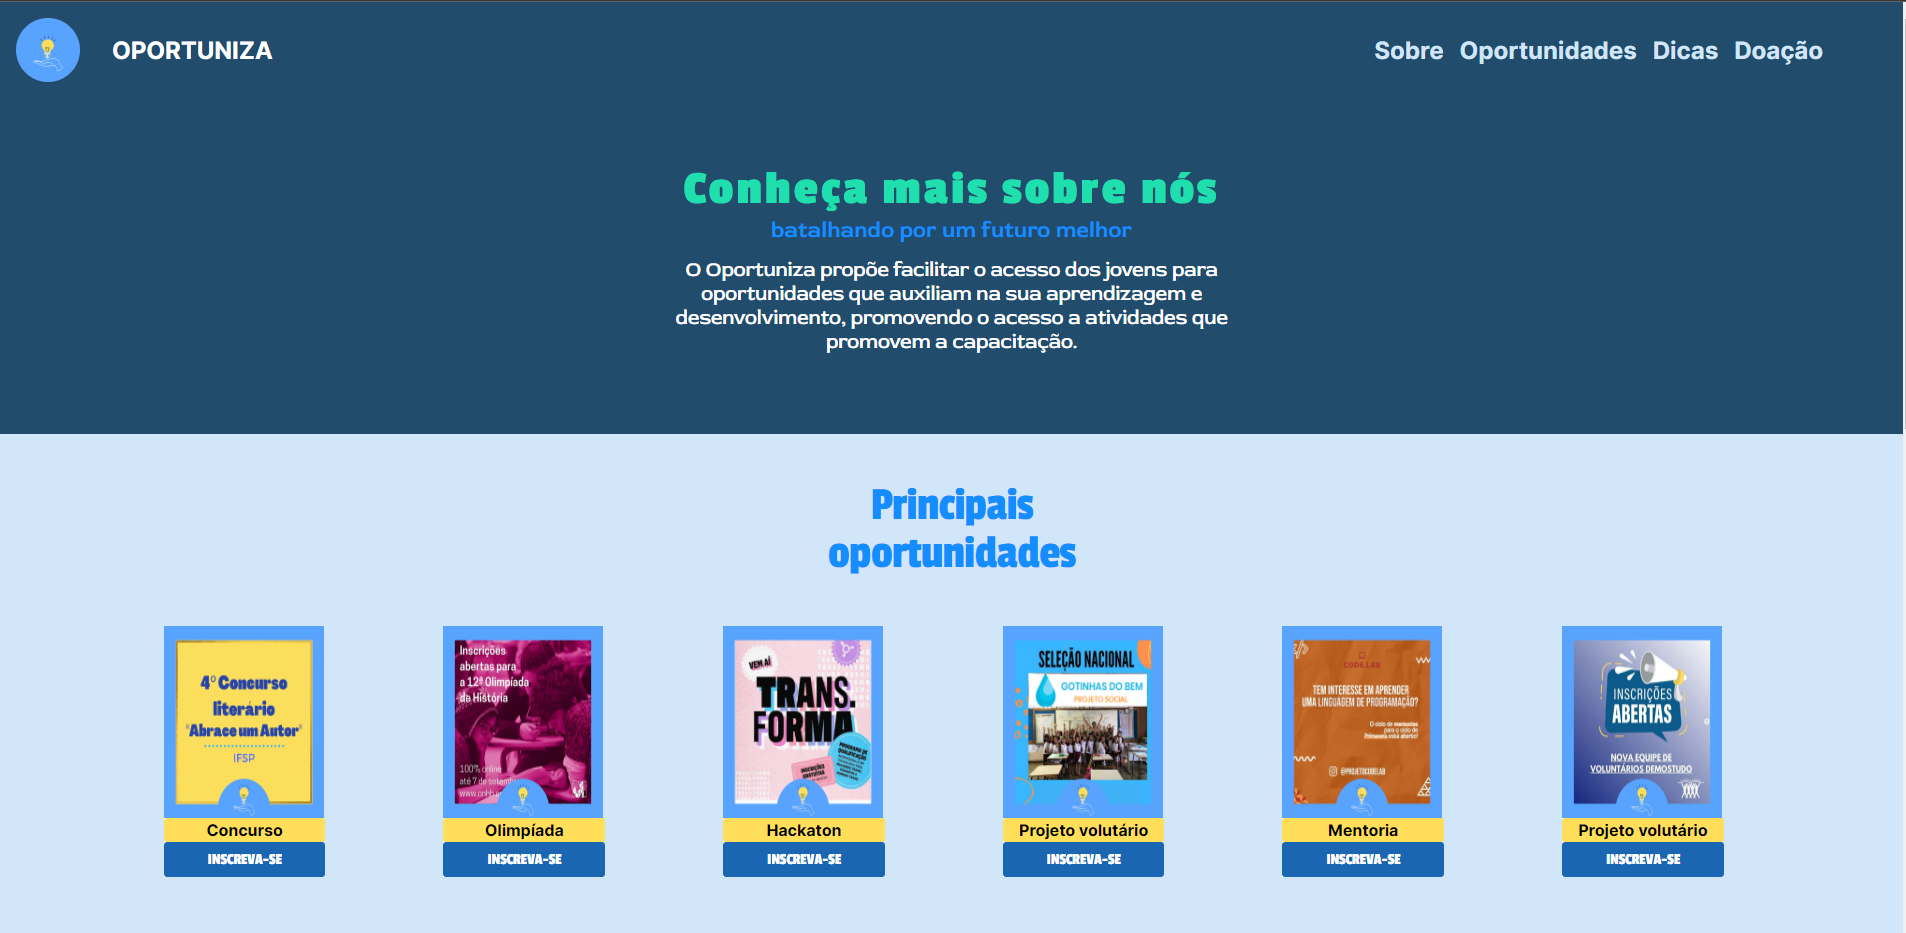
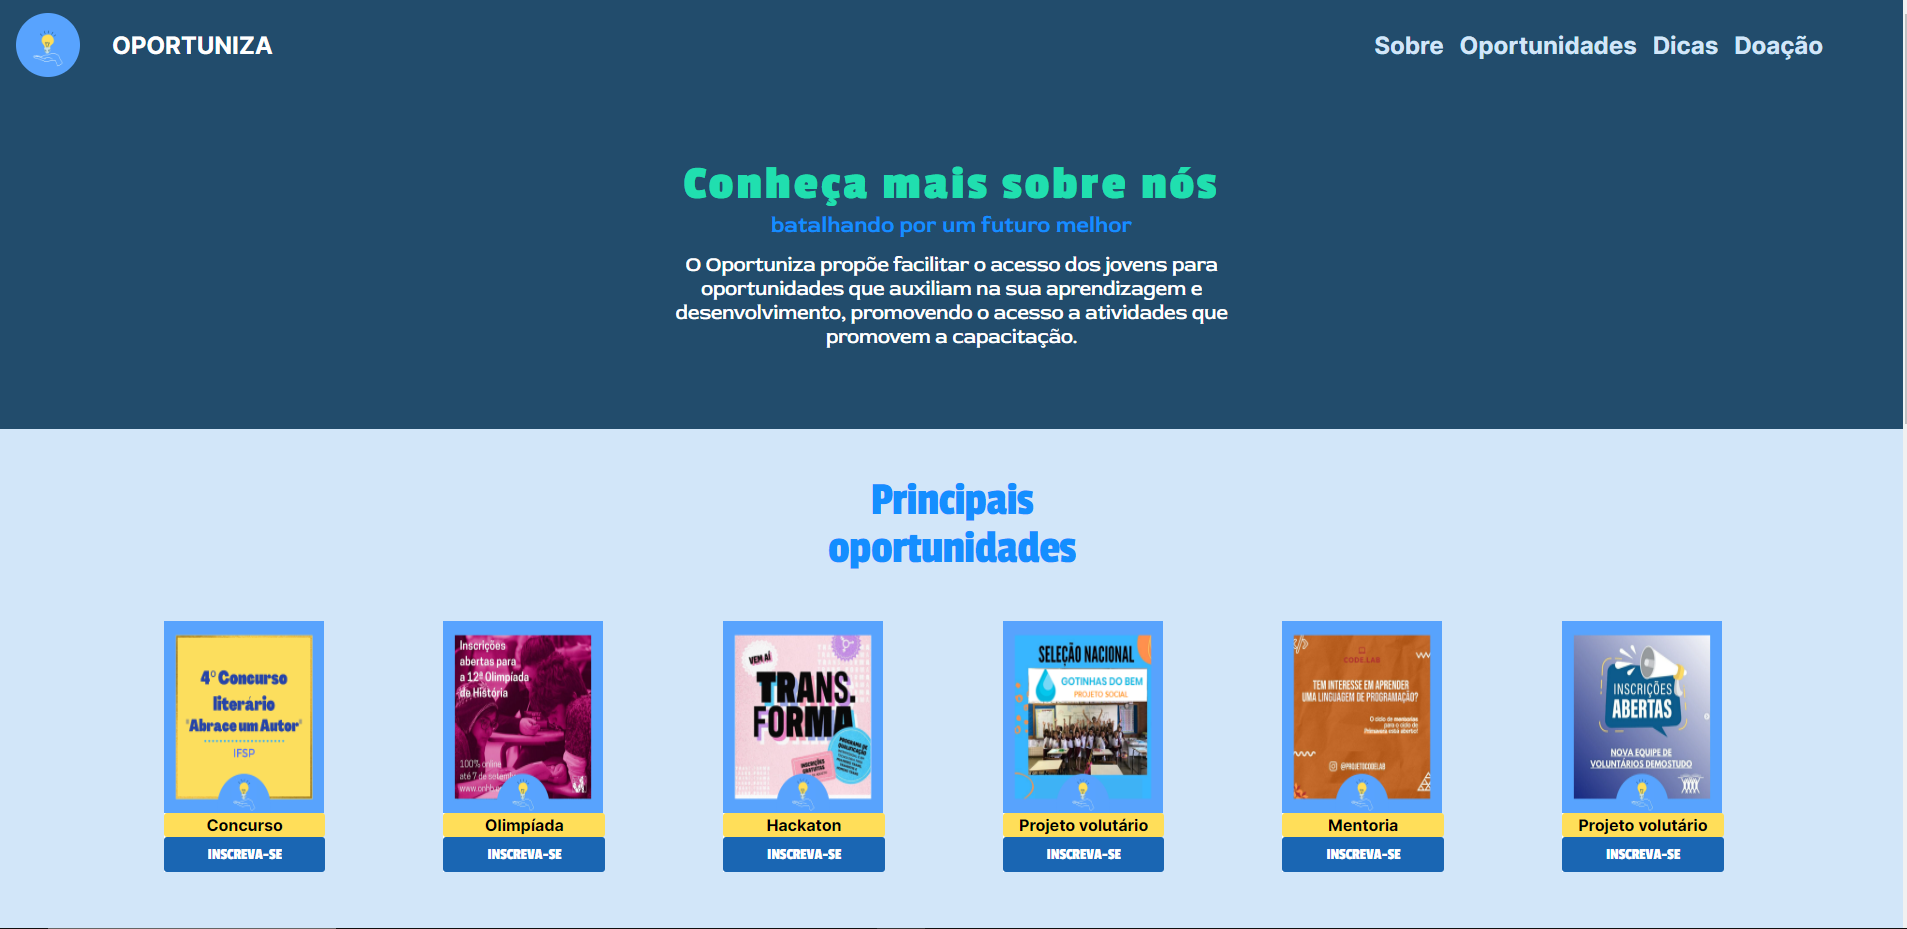
add preview

diff --git a/README.md b/README.md
@@ -17,8 +17,10 @@ Projeto feio a partir de uma adaptação de um Hackathon que tem um objetivo soc
 
 <br>
 
+<p align="center"> 
+    <img alt="Projeto Oportuniza" src="src/imagens/preview.png">
 
-![image](https://user-images.githubusercontent.com/71864098/207725394-a5d70eac-af28-465c-a09c-082d369e1b48.png)
+</p>
 
 ## 🚀 Tecnologias
 
